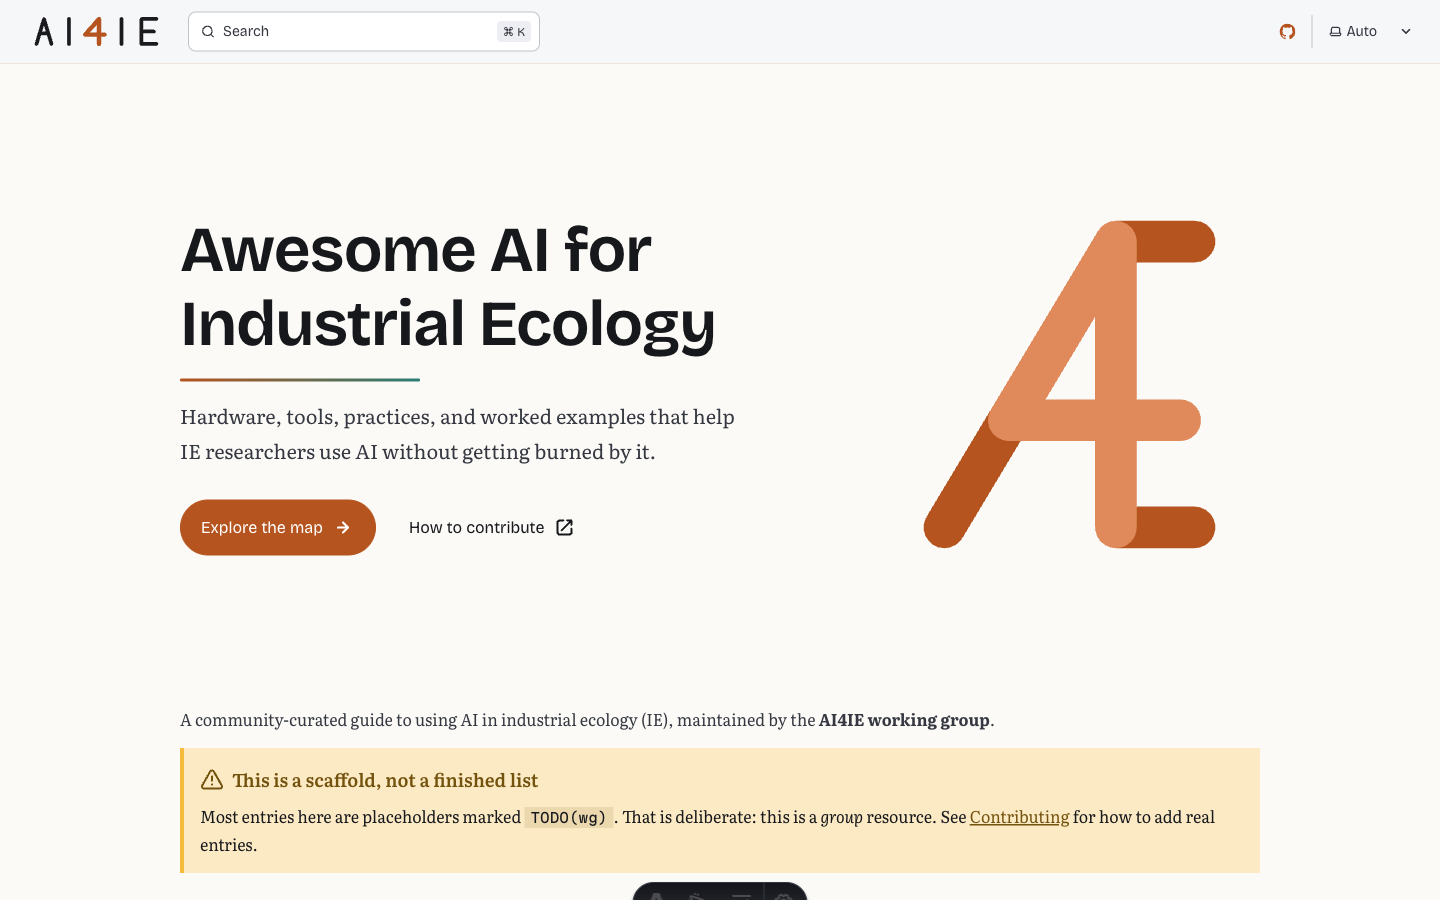
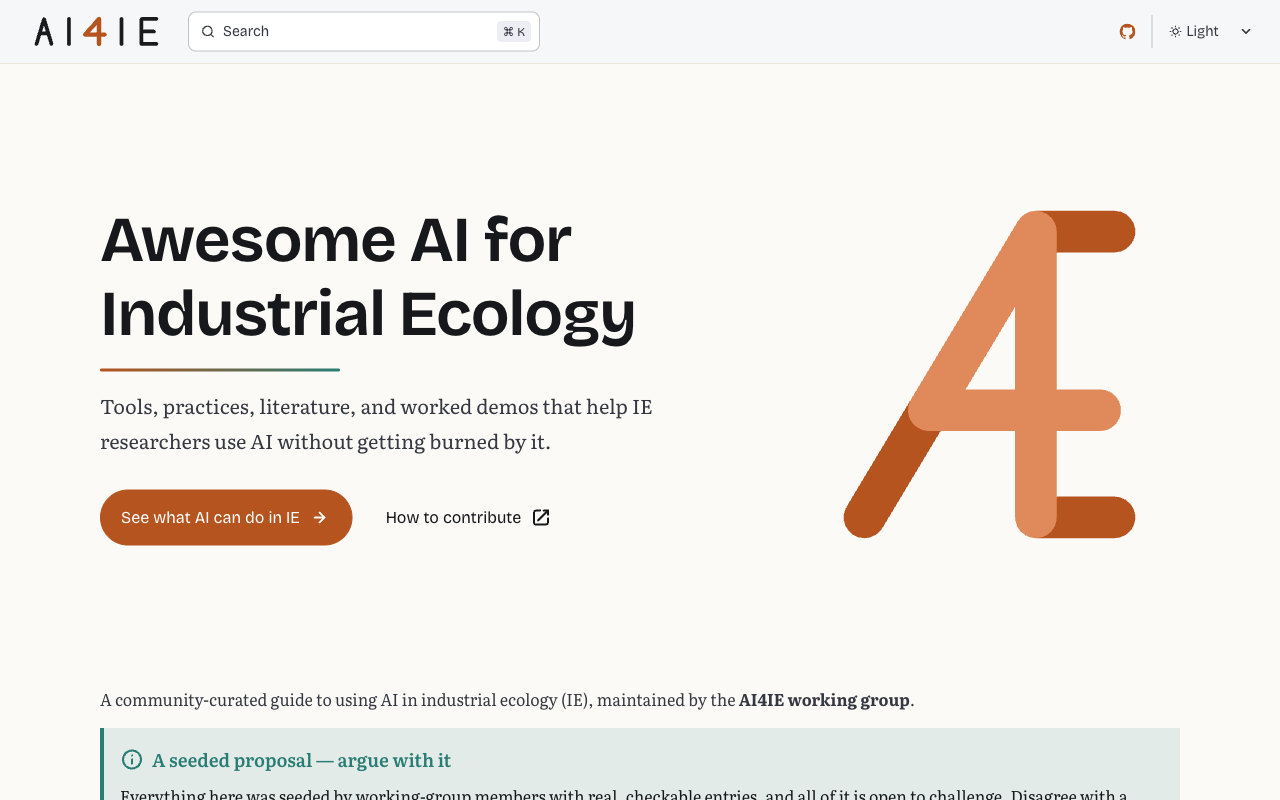
fix: polish UI and remove stale scaffold notes
- note asides wear the patina instead of default blue
- drop outdated scaffold caution from the now-real checklists
- refresh readme screenshot to the new landing page

diff --git a/src/styles/custom.css b/src/styles/custom.css
@@ -104,6 +104,16 @@
   font-family: var(--font-prose);
 }
 
+/* ── Asides: note wears the patina instead of Starlight's default blue ───── */
+.starlight-aside--note {
+  --sl-color-asides-text-accent: var(--patina-bright);
+  --sl-color-asides-border: var(--patina);
+  background-color: color-mix(in srgb, var(--patina) 12%, transparent);
+}
+:root[data-theme="light"] .starlight-aside--note {
+  --sl-color-asides-text-accent: var(--patina);
+}
+
 /* ── Accessibility floor ─────────────────────────────────────────────────── */
 :focus-visible {
   outline: 2px solid var(--copper);

diff --git a/src/content/docs/best-practices.md b/src/content/docs/best-practices.md
@@ -55,10 +55,6 @@ Where people get burned — each with a documented case, not folklore:
 AI output looks confident whether or not it's right. Run a checklist before using it
 in research.
 
-:::caution[Scaffold]
-Adapt these stubs to IE work and add domain-specific checks.
-:::
-
 ### AI-assisted coding
 
 AI-generated code runs and looks plausible whether or not it's doing the right thing. This is